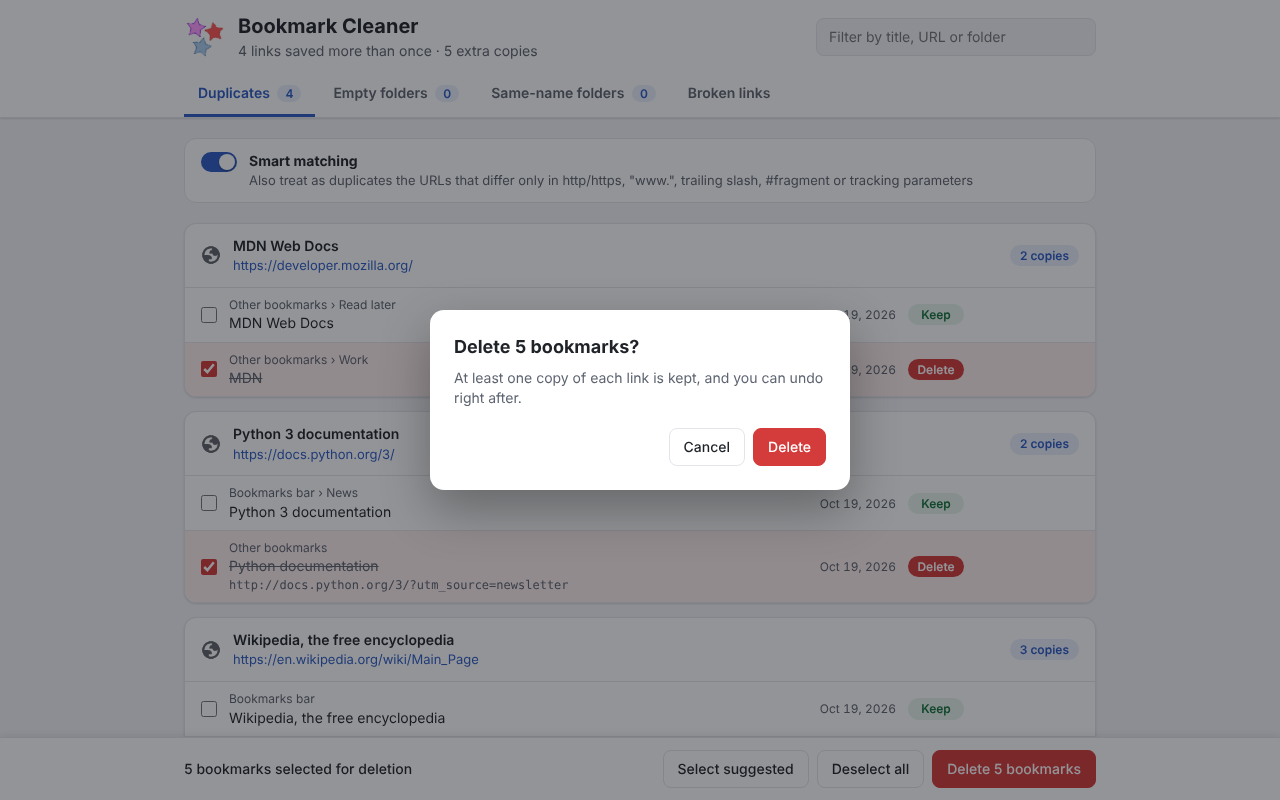
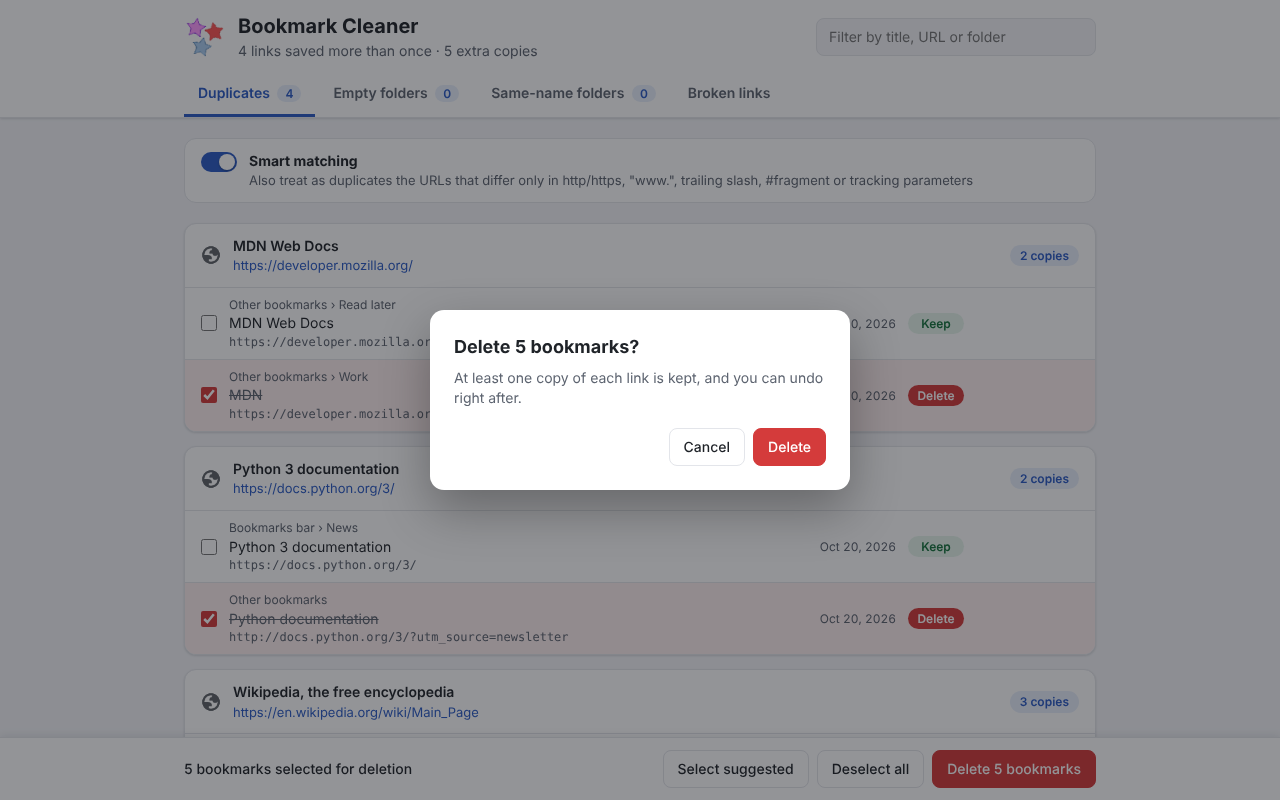
Always show the URL of each duplicate copy
The URL was shown only for copies whose URL differs from the first one,
so copies in the same group looked different. Screenshots regenerated.

Claude-Session: https://claude.ai/code/session_01EgB2BE6SAL3zHCu6oLk3Tw

diff --git a/tab-duplicates.js b/tab-duplicates.js
@@ -62,7 +62,8 @@ TABS.duplicates = (function() {
             var label = element("label", { htmlFor: checkbox.id, className: "copy-text" }, [
                 path,
                 element("span", { className: "copy-title", textContent: bookmark.title || bookmark.url, title: bookmark.title }),
-                bookmark.url != first.url ? element("span", { className: "variant", textContent: bookmark.url, title: bookmark.url }) : null
+                // always show the URL, so every copy reads the same way
+                element("span", { className: "variant", textContent: bookmark.url, title: bookmark.url })
             ]);
             var row = element("li", { className: "copy" }, [
                 checkbox,
